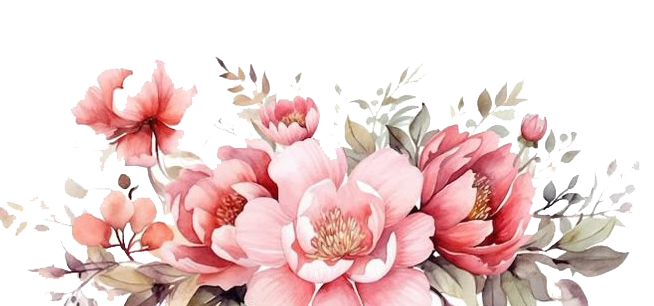
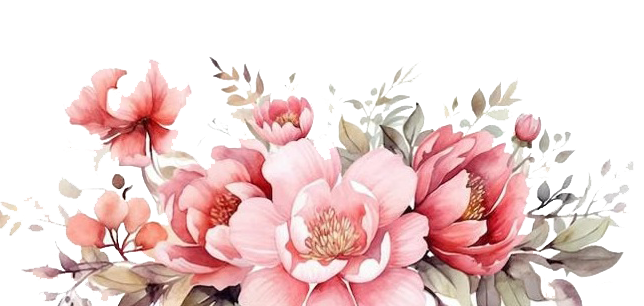
Make the following changes:
,

Find this element:

Relevant files:

diff --git a/src/app/page.tsx b/src/app/page.tsx
@@ -21,6 +21,9 @@ import {
   Disc3, 
   Car,
   Palette,
+  Brush,
+  Wine,
+  Bus
 } from 'lucide-react';
 
 export default function HomePage() {
@@ -90,7 +93,7 @@ export default function HomePage() {
           dayName="Viernes"
           dayNumber="1"
           year="2025"
-          className="animate-in fade-in duration-1000 delay-700"
+          className="animate-in fade-in duration-1000 delay-700 text-primary"
         />
 
         <div className="w-full max-w-md animate-in fade-in duration-1000 delay-800">
@@ -101,9 +104,10 @@ export default function HomePage() {
           <SectionCard
             title="Ceremonia Religiosa"
             locationButton={{ text: "Ver Ubicación", url: "https://maps.app.goo.gl/urnxoQk9w1md1kYGA" }}
+            titleClassName="text-primary"
           >
             <div className="flex flex-col items-center space-y-2 mb-3">
-              <Image src="/church.png" alt="Iglesia Icon" width={40} height={40} className="shrink-0" data-ai-hint="church building"/>
+               <Image src="/church.png" alt="Iglesia Icon" width={40} height={40} className="shrink-0" data-ai-hint="church building"/>
             </div>
             <div className="mt-1 space-y-1 text-center">
               <p className="flex items-center justify-center">Parroquia Jesús de la Divina Misericordia</p>
@@ -116,9 +120,10 @@ export default function HomePage() {
           <SectionCard 
             title="Recepción"
             locationButton={{ text: "Ver Ubicación", url: "https://maps.app.goo.gl/2nyhPou1JRjuhLdq9" }}
+            titleClassName="text-primary"
           >
             <div className="flex flex-col items-center space-y-2 mb-3">
-              <GlassWater size={40} className="text-primary shrink-0"/>
+              <GlassWater size={40} className="text-primary shrink-0" />
             </div>
             <div className="mt-1 space-y-1 text-center">
               <p className="flex items-center justify-center">Club Terraza, Salón Azotea</p>
@@ -132,6 +137,7 @@ export default function HomePage() {
             title="Itinerario de Actividades" 
             icon={<ListChecks size={28} className="text-primary"/>}
             contentClassName="px-0 pt-4 pb-4" 
+            titleClassName="text-primary"
           >
             <div className="relative w-full max-w-xs sm:max-w-sm md:max-w-md mx-auto">
               
@@ -155,7 +161,8 @@ export default function HomePage() {
 
         <div className="w-full animate-in fade-in duration-1000 delay-1200">
           <SectionCard 
-            title="Código de Vestimenta" 
+            title="Código de Vestimenta"
+            titleClassName="text-primary"
           >
              <Image src="/dress-code.png" alt="Código de Vestimenta Formal" width={300} height={300} className="mx-auto mt-3 mb-3" data-ai-hint="formal attire" />
              <div><p className="text-sm sm:text-base text-foreground/90">Formal</p></div>
@@ -166,6 +173,7 @@ export default function HomePage() {
           <SectionCard
             title="Colores Reservados"
             icon={<Palette size={28} className="text-primary"/>}
+            titleClassName="text-primary"
           >
             <div className="flex justify-center space-x-3 mt-2">
               <Image src="/colors/color1.jpeg" alt="Color Reservado 1" width={50} height={50} className="rounded-md shadow-md" data-ai-hint="color swatch" />
@@ -178,10 +186,12 @@ export default function HomePage() {
           </SectionCard>
         </div>
 
+
         <div className="w-full animate-in fade-in duration-1000 delay-[1400ms]">
           <SectionCard 
             title="Sugerencia de Regalos" 
             icon={<Gift size={28} className="text-primary"/>}
+            titleClassName="text-primary"
           >
             <p>Tu presencia es nuestro mayor regalo. Si además deseas obsequiarnos algo, Valentina agradecería contribuciones monetarias para sus futuros proyectos y estudios. Habrá un buzón disponible durante el evento.</p>
           </SectionCard>
@@ -215,9 +225,9 @@ export default function HomePage() {
         </div>
 
         {/* Decorative flowers at the bottom, now inside the card */}
-        <div className="w-full max-w-2xl mx-auto mt-6 mb-0 px-0 animate-in fade-in duration-1000 delay-[1800ms]">
+        <div className="w-full mt-6 animate-in fade-in duration-1000 delay-[1800ms]">
           <Image
-            src="/flores_bottom.png"
+            src="/flowers_deco/flores bottom.png"
             alt="Decorative flowers at the bottom"
             width={1200} 
             height={300} 
